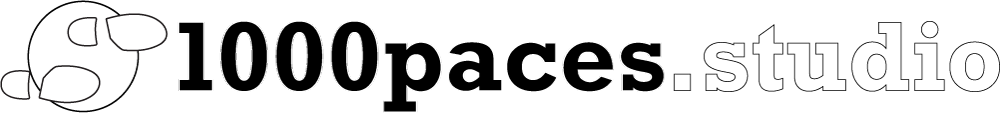
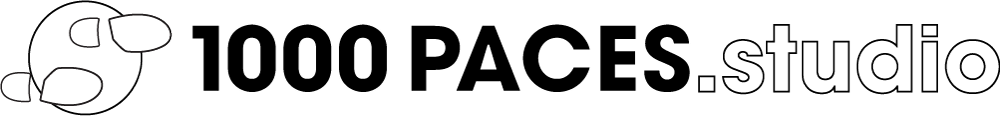
Changed the header image, cleanup on the tour page.

Changed region(s): [[0.0, 0.0, 1.0, 1.0], [0.0, 0.4248, 0.031, 0.4779], [0.0, 0.531, 0.031, 0.5575]]

diff --git a/app/assets/stylesheets/tour.scss b/app/assets/stylesheets/tour.scss
@@ -2,26 +2,19 @@
 // They will automatically be included in application.css.
 // You can use Sass (SCSS) here: http://sass-lang.com/
 
-
-.navbar .form-inline {
-	margin-left: 20px;
-	margin-right: 20px
-}
-
 body {
-	
+	background-color: #e9eaed !important;
+  display: flex;
 }
 
-.wcms-jumbotron-background {
-  margin-bottom: 0px;
-  background-image: url(path.png);
-  background-position: 0% 25%;
-  background-size: cover;
-  background-repeat: no-repeat;
+.wcms-container {
+  background: #fff;
+  margin: 10px;
+  align-items: stretch;
+  margin-left: auto;
+  margin-right: auto;
 }
 
-.wcms-jumbotron-background h1, .wcms-jumbotron-background .lead {
-  color: white;
-  text-shadow: black 0.3em 0.3em 0.3em;
+.wcms-header-img {
+  padding: 10px;
 }
-

diff --git a/app/helpers/application_helper.rb b/app/helpers/application_helper.rb
@@ -41,7 +41,7 @@ module ApplicationHelper
 	end
 
 	def cms_name
-		"stonewall.press"
+		"1000paces.studio"
 	end
 
 	def cms_icon(s=24)
@@ -50,11 +50,11 @@ module ApplicationHelper
 	end
 
 	def cms_logo
-		image_tag('1kp_studio_1000x113.png', :class => "img-fluid", :style => "display: inline-block;")
+		image_tag('1kp_studio_1000x113.png', :class => "wcms-header-img")
 	end
 
 	def cms_brand
-		image_tag('1kp_studio_1000x113.png', :size => "145x30", :style => "display: inline-block;")
+		image_tag('1kp_studio_1000x113.png', :width => "145", :style => "display: inline-block;")
 	end
 end
 

diff --git a/app/controllers/tour_controller.rb b/app/controllers/tour_controller.rb
@@ -4,8 +4,9 @@ class TourController < ApplicationController
   	@user = User.new
   	Rails.logger.warn("\n\nTourController::show")
   	Rails.logger.warn("domain IS #{request.domain}\n\n")
-  	#if request.domain != "stonewall.dev"
-  	#	redirect_to public_path(params[:id])
-  	#end
+  end
+
+  def more
+  	@user = User.new
   end
 end

diff --git a/config/routes.rb b/config/routes.rb
@@ -33,6 +33,7 @@ Rails.application.routes.draw do
 	#get 'welcome/index'
 	#get '/' => "tour#index"
 	resources :tour, only: [:index]
+	get "more" => "tour#more", :as => :tour_more
 	get '/(:id)' => "index#show", :as => :public
 
 	get "login" => "user_sessions#new", :as => :login
